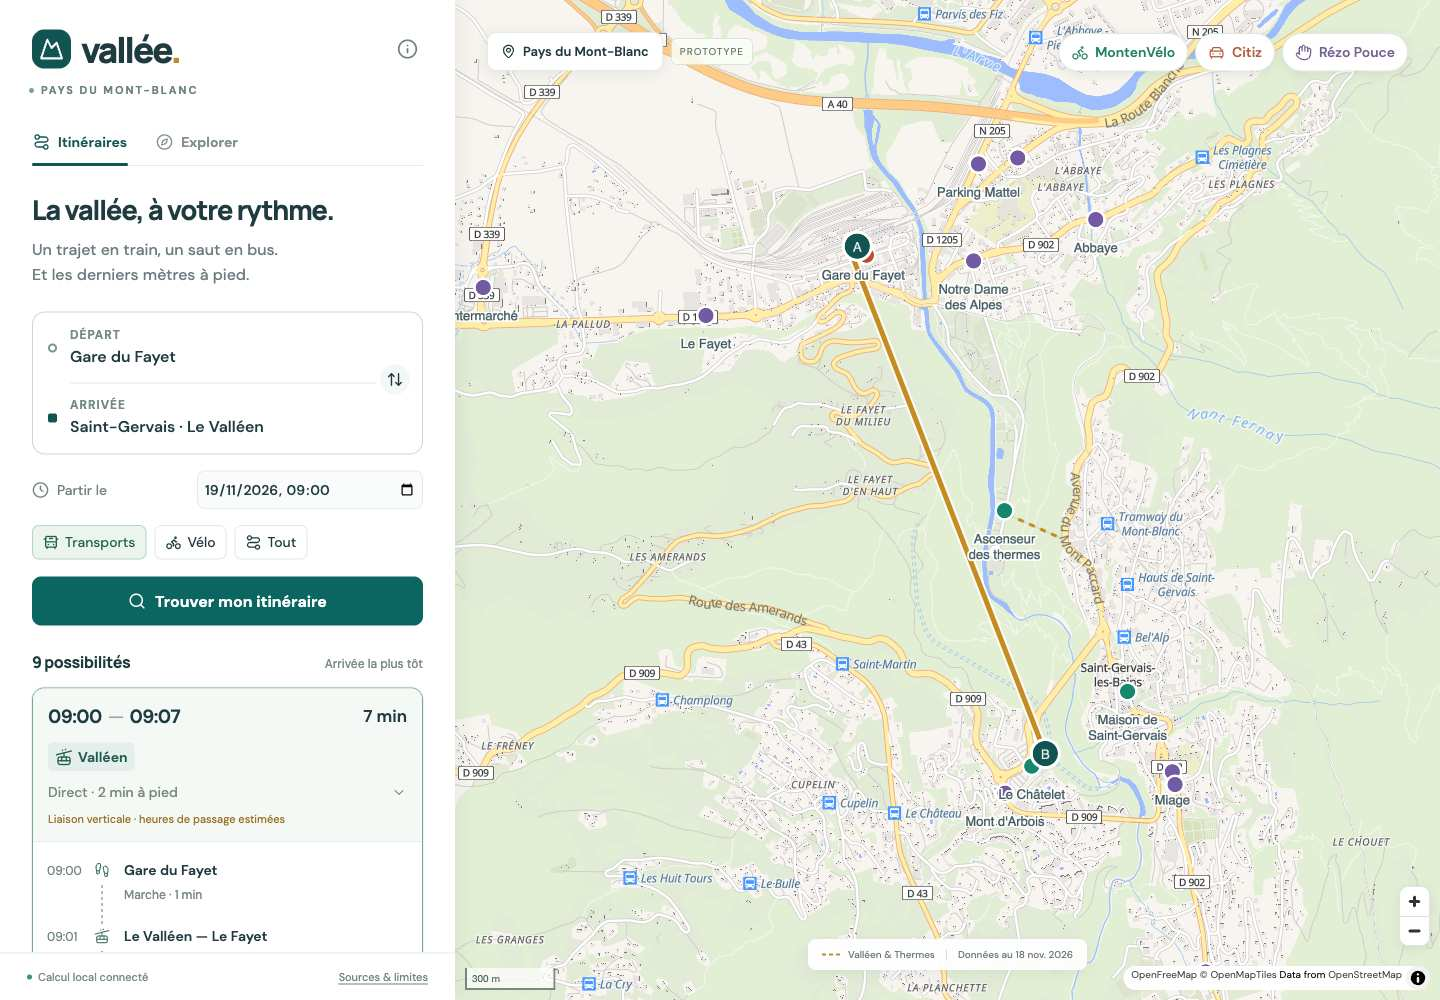
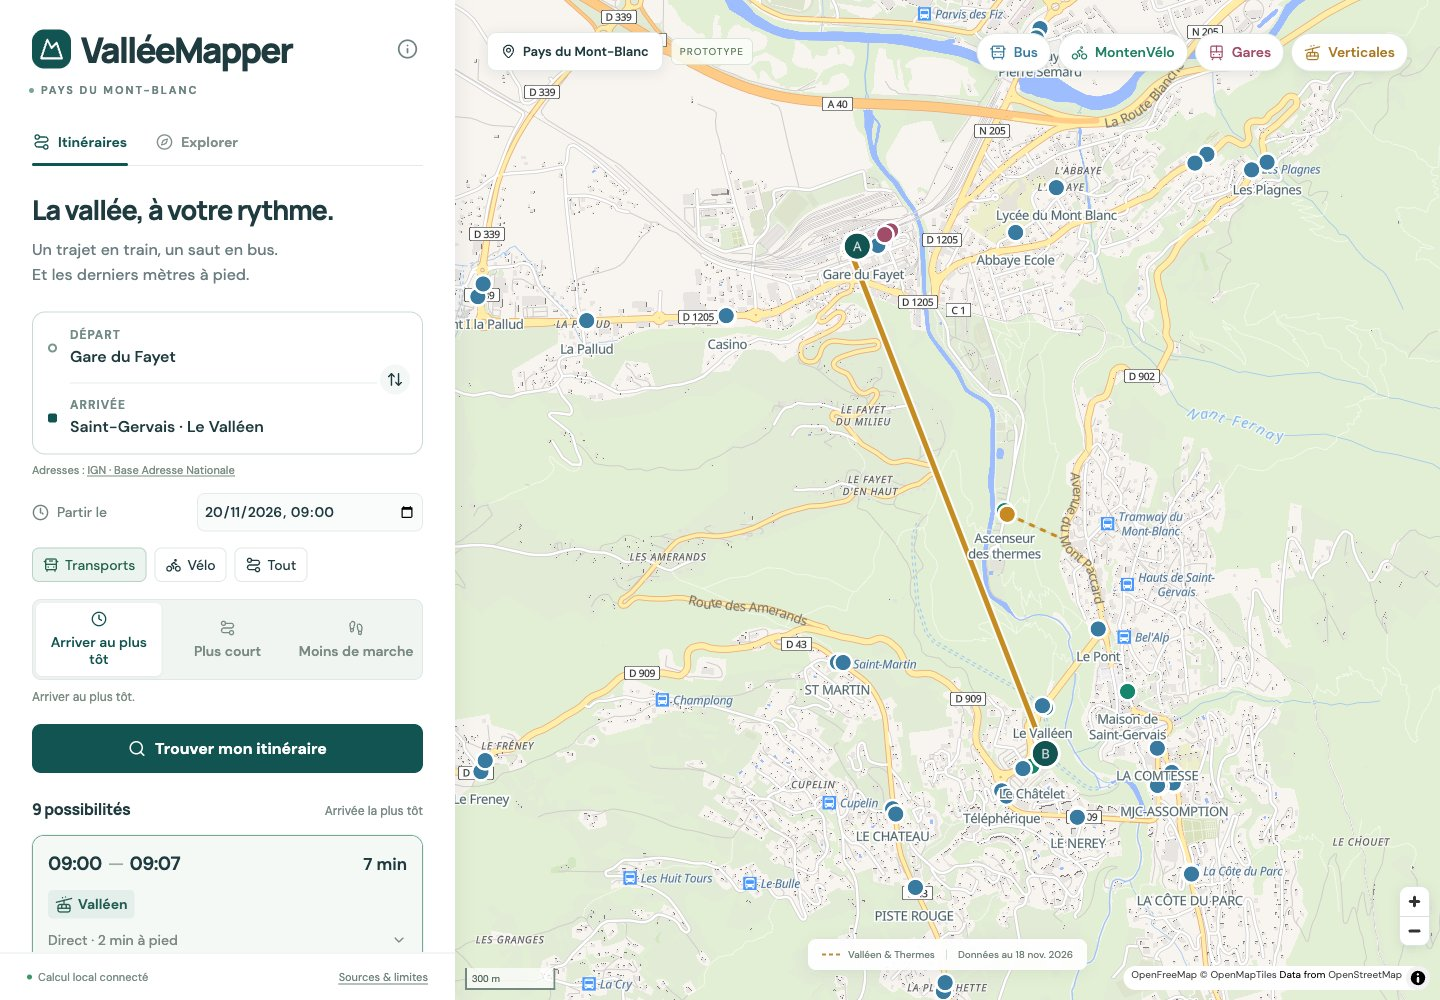
Rename the project to ValléeMapper

diff --git a/src/main.tsx b/src/main.tsx
@@ -615,13 +615,11 @@ function App() {
     <main className={"app " + (mobileMap ? "show-map" : "")}>
       <aside className="sidebar">
         <header className="brand">
-          <a href="/" className="wordmark" aria-label="Vallée, accueil">
+          <a href="/" className="wordmark" aria-label="ValléeMapper, accueil">
             <span className="brand-mark">
               <Mountain size={25} />
             </span>
-            <span>
-              vallée<span className="brand-period">.</span>
-            </span>
+            <span>ValléeMapper</span>
           </a>
           <button
             className="icon-button"

diff --git a/index.html b/index.html
@@ -8,7 +8,7 @@
       name="description"
       content="Explorer les transports du Pays du Mont-Blanc : itinéraires, vélos, Citiz et Rézo Pouce."
     />
-    <title>Vallée — Pays du Mont-Blanc</title>
+    <title>ValléeMapper — Pays du Mont-Blanc</title>
     <link rel="icon" type="image/svg+xml" href="/favicon.svg" />
   </head>
   <body>

diff --git a/src/style.css b/src/style.css
@@ -116,9 +116,6 @@ h2 {
   background: var(--green);
   color: #fff;
 }
-.brand-period {
-  color: #c28a34;
-}
 .icon-button {
   width: 32px;
   height: 32px;
@@ -1195,7 +1192,7 @@ h2 {
     padding-top: 17px;
   }
   .wordmark {
-    font-size: 31px;
+    font-size: clamp(24px, 8vw, 31px);
   }
   .brand-mark {
     width: 35px;

diff --git a/README.md b/README.md
@@ -1,6 +1,6 @@
-# Vallée · Pays du Mont-Blanc
+# ValléeMapper · Pays du Mont-Blanc
 
-![Vallée journey planner](docs/screenshots/journey.jpg)
+![ValléeMapper journey planner](docs/screenshots/journey.jpg)
 
 A working local prototype of a valley journey planner: React/TypeScript, MapLibre and native **MOTIS 2.11.4**. No Java. The UI is in French.
 
@@ -51,7 +51,7 @@ The included architecture is **Worker + static assets → one shared Durable Obj
 Pushes to `main` and pull requests run the tests, download the routing inputs, build the site, and start a Linux MOTIS image to check it. The GitHub runner provides Docker. For the first deploy, set up a Cloudflare account with Workers Paid and an active `workers.dev` subdomain. Add two [repository Actions secrets](https://github.com/mathieudutour/valleemapper/settings/secrets/actions):
 
 - `CLOUDFLARE_ACCOUNT_ID` is the target account ID.
-- `CLOUDFLARE_API_TOKEN` is an [account API token](https://developers.cloudflare.com/fundamentals/api/get-started/create-token/) created under **Manage Account → API Tokens**. Use **Workers Admin** at the Workers product scope for the first deploy and grant write access to **Containers**. Scope the token to the account hosting Vallée. Once the Worker exists, the Workers permission can be narrowed to **Editor** on `mont-blanc-mobilite`. See [Cloudflare’s Workers roles](https://developers.cloudflare.com/workers/authorization/workers/) and [Containers permissions](https://developers.cloudflare.com/fundamentals/api/reference/permissions/).
+- `CLOUDFLARE_API_TOKEN` is an [account API token](https://developers.cloudflare.com/fundamentals/api/get-started/create-token/) created under **Manage Account → API Tokens**. Use **Workers Admin** at the Workers product scope for the first deploy and grant write access to **Containers**. Scope the token to the account hosting ValléeMapper. Once the Worker exists, the Workers permission can be narrowed to **Editor** on `mont-blanc-mobilite`. See [Cloudflare’s Workers roles](https://developers.cloudflare.com/workers/authorization/workers/) and [Containers permissions](https://developers.cloudflare.com/fundamentals/api/reference/permissions/).
 
 In [Actions → Build and deploy](https://github.com/mathieudutour/valleemapper/actions/workflows/build-deploy.yml), choose **Run workflow** on `main`. Wrangler builds and pushes the image and publishes the Worker. The final step waits for the deployed router to report ready and prints the app URL. The first deployment can take a few minutes.
 
